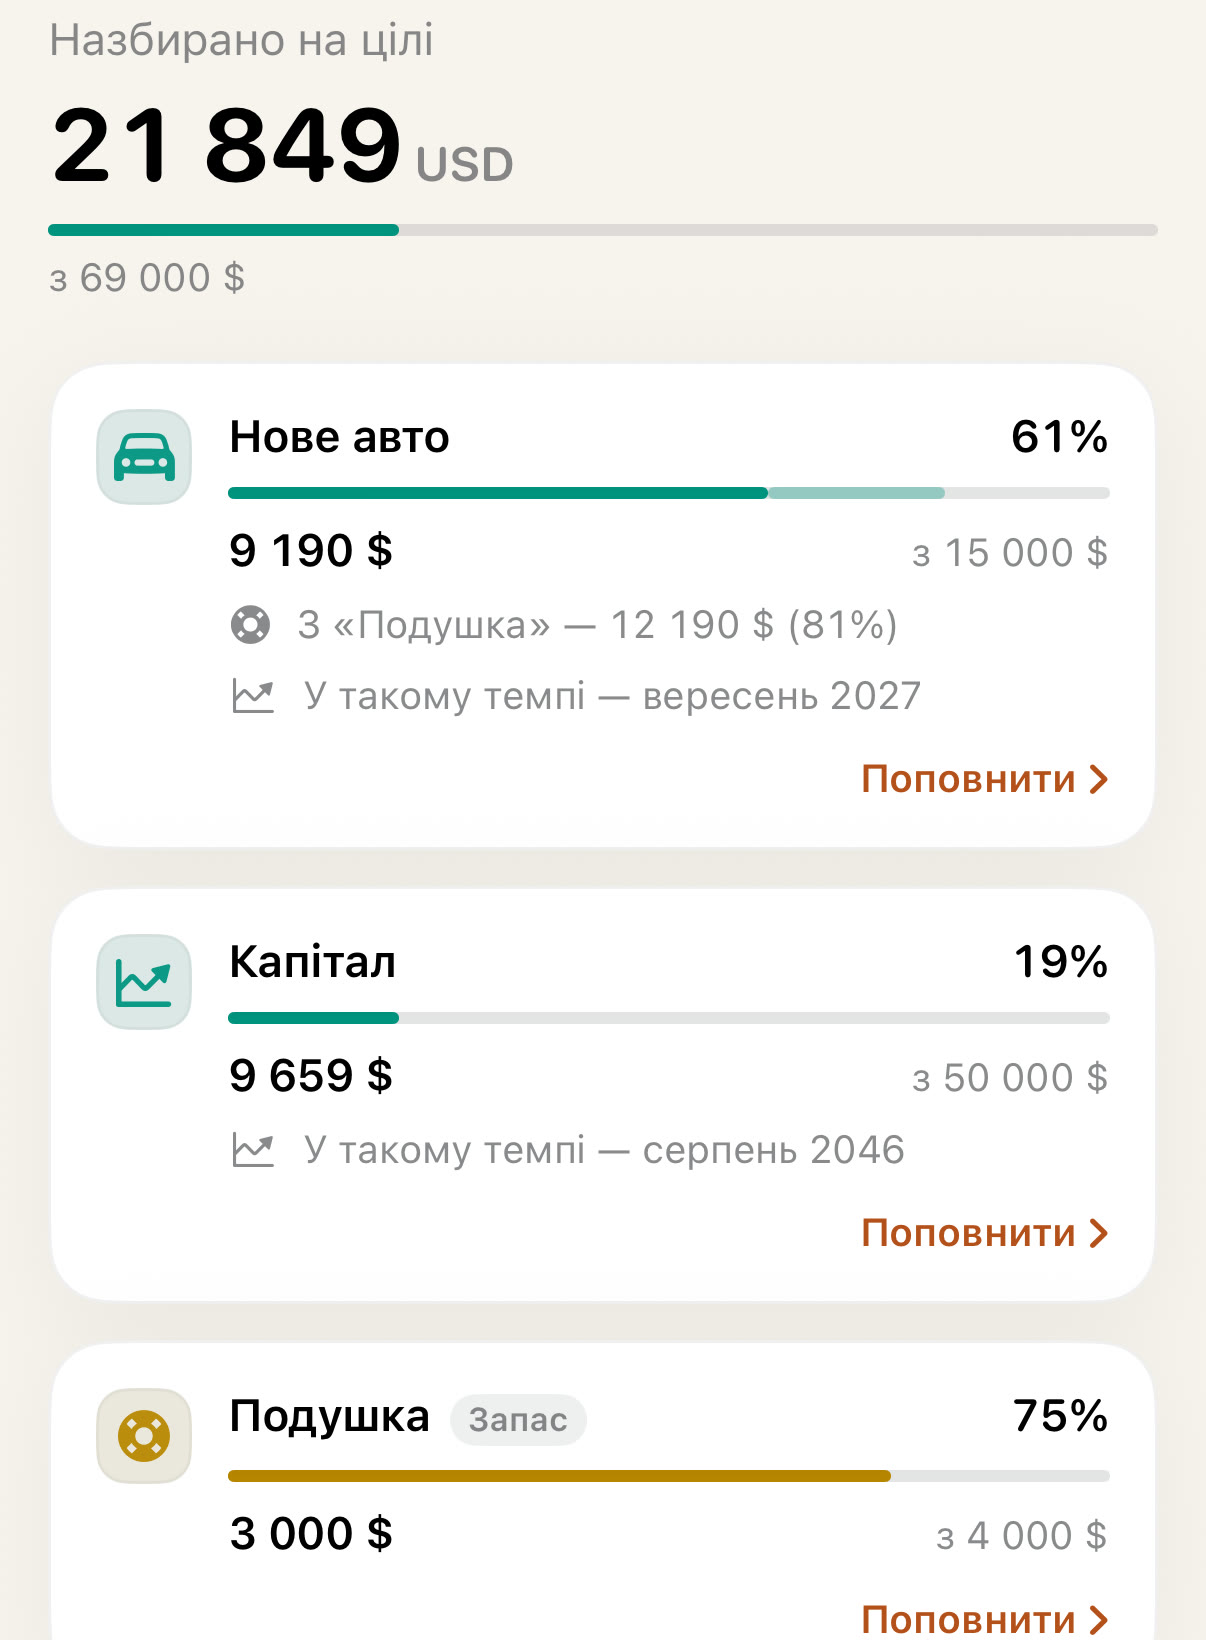
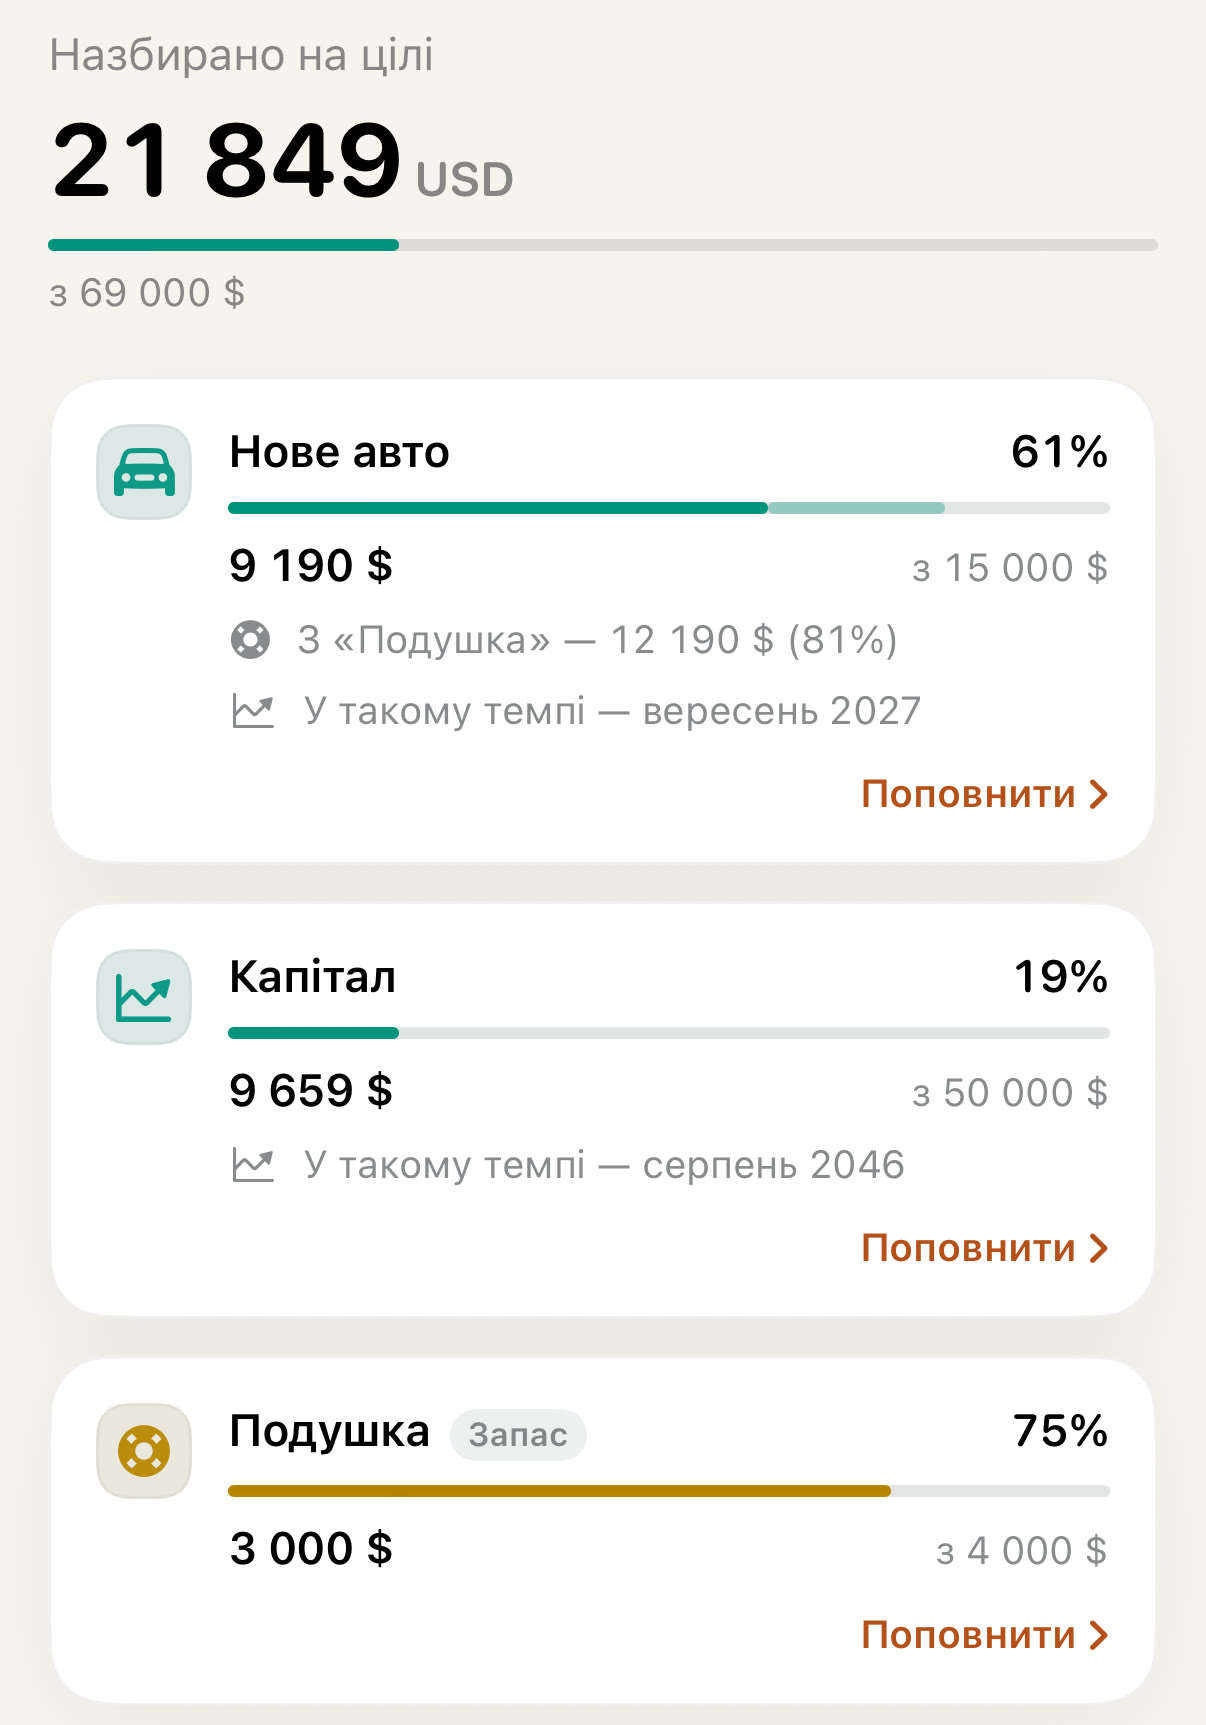
Landing 2.0 preview: the whole product in the hero, Dibsly's chat second; whole tile crops (owner)

diff --git a/v2/index.html b/v2/index.html
@@ -33,15 +33,33 @@
     </header>
 
     <main>
-        <section class="hero" id="ask">
+        <section class="hero" id="top">
             <div class="wrap">
                 <div>
-                    <h1>Запитай Dibsly, <em>куди поділись гроші</em></h1>
-                    <p class="lead">Він збирає всі твої рахунки, сам записує витрати й відповідає твоїми цифрами.</p>
+                    <h1>Усі твої гроші <em>в&nbsp;одному місці</em></h1>
+                    <p class="lead">Картки всіх банків, готівка, накопичення й інвестиції. Dibsly сам записує витрати й відповідає на питання про гроші.</p>
                     <div class="actions">
                         <a class="button primary" href="https://apps.apple.com/app/id6765870838">Завантажити в App Store</a>
-                        <a class="button quiet" href="#auto">Що він уміє</a>
+                        <a class="button quiet" href="#ask">Запитати Dibsly</a>
                     </div>
+                </div>
+                <div class="showcase">
+                    <div class="phone"><div class="slides" data-hold="2300"><img class="on" src="shots/uk-main-a.jpg" alt="Головна Dibsly: гроші під рукою, накопичення й інвестиції" width="750" height="1631"><img src="shots/uk-an-1.jpg" alt="Аналітика за категоріями" width="750" height="1631" loading="lazy"><img src="shots/uk-inv-1.jpg" alt="Портфель інвестицій" width="750" height="1631" loading="lazy"><img src="shots/uk-goals-full.jpg" alt="Цілі" width="750" height="1631" loading="lazy"></div></div>
+                    <div class="mascot" data-play="hello" data-then="idle" aria-hidden="true">
+                        <picture class="mascot-still"><img class="light-only" src="../img/dibsly.png" alt="" width="404" height="386"><img class="dark-only" src="../img/dibsly-dark.png" alt="" width="404" height="386"></picture>
+                        <div class="mascot-stage"></div>
+                    </div>
+                    <ul class="sources" aria-hidden="true"><li class="s0">monobank</li><li class="s1">ПриватБанк</li><li class="s2">Apple Pay</li><li class="s3">Interactive Brokers</li><li class="s4">Готівка</li></ul>
+                </div>
+            </div>
+        </section>
+
+        <section class="asksec" id="ask">
+            <div class="wrap">
+                <div class="reveal">
+                    <h2>Запитай Dibsly про свої гроші</h2>
+                    <p class="lead">Він знає твої рахунки, витрати й цілі, тож відповідає твоїми цифрами. А змінює щось тільки після твого «Зберегти».</p>
+                    <p class="note">5 питань на місяць безкоштовно, більше з Premium.</p>
                 </div>
                 <div class="ask">
                     <div class="mascot" data-play="hello" data-then="idle" aria-hidden="true">
@@ -106,15 +124,15 @@
                 <div class="bento">
                     <article class="tile big reveal">
                         <div><h3>Цілі</h3><p>Авто, квартира чи подушка. Dibsly каже, в якому місяці дійдеш у такому темпі.</p></div>
-                        <div class="crop"><img src="shots/uk-goals.jpg" alt="Цілі: нове авто, капітал і подушка" width="1206" height="1100" loading="lazy"></div>
+                        <div class="crop"><img src="shots/uk-goals.jpg" alt="Цілі: нове авто, капітал і подушка" width="1206" height="1725" loading="lazy"></div>
                     </article>
                     <article class="tile reveal">
                         <div><h3>План місяця</h3><p>Ліміти на категорії й скільки ще можна витратити.</p></div>
-                        <div class="crop"><img src="shots/uk-plan.jpg" alt="План місяця з лімітами" width="1206" height="1100" loading="lazy"></div>
+                        <div class="crop"><img src="shots/uk-plan.jpg" alt="План місяця з лімітами" width="1206" height="780" loading="lazy"></div>
                     </article>
                     <article class="tile reveal">
                         <div><h3>Календар платежів</h3><p>Оренда, підписки й кредити: що й коли спишеться.</p></div>
-                        <div class="crop"><img style="object-position: 50% 75%" src="shots/uk-calendar.jpg" alt="Календар регулярних платежів" width="1206" height="1100" loading="lazy"></div>
+                        <div class="crop"><img src="shots/uk-calendar.jpg" alt="Календар регулярних платежів" width="1206" height="1365" loading="lazy"></div>
                     </article>
                 </div>
             </div>

diff --git a/v2/en.html b/v2/en.html
@@ -33,15 +33,33 @@
     </header>
 
     <main>
-        <section class="hero" id="ask">
+        <section class="hero" id="top">
             <div class="wrap">
                 <div>
-                    <h1>Ask Dibsly <em>where the money went</em></h1>
-                    <p class="lead">He gathers all your accounts, records your spending by himself and answers in your own figures.</p>
+                    <h1>All your money <em>in one place</em></h1>
+                    <p class="lead">Cards from every bank, cash, savings and investments. Dibsly records your spending and answers your money questions.</p>
                     <div class="actions">
                         <a class="button primary" href="https://apps.apple.com/app/id6765870838">Download on the App Store</a>
-                        <a class="button quiet" href="#auto">What he can do</a>
+                        <a class="button quiet" href="#ask">Ask Dibsly</a>
                     </div>
+                </div>
+                <div class="showcase">
+                    <div class="phone"><div class="slides" data-hold="2300"><img class="on" src="shots/en-main-a.jpg" alt="Dibsly's Main: money on hand, savings and investments" width="750" height="1631"><img src="shots/en-an-1.jpg" alt="Analytics by category" width="750" height="1631" loading="lazy"><img src="shots/en-inv-1.jpg" alt="Investment portfolio" width="750" height="1631" loading="lazy"><img src="shots/en-goals-full.jpg" alt="Goals" width="750" height="1631" loading="lazy"></div></div>
+                    <div class="mascot" data-play="hello" data-then="idle" aria-hidden="true">
+                        <picture class="mascot-still"><img class="light-only" src="../img/dibsly.png" alt="" width="404" height="386"><img class="dark-only" src="../img/dibsly-dark.png" alt="" width="404" height="386"></picture>
+                        <div class="mascot-stage"></div>
+                    </div>
+                    <ul class="sources" aria-hidden="true"><li class="s0">monobank</li><li class="s1">PrivatBank</li><li class="s2">Apple Pay</li><li class="s3">Interactive Brokers</li><li class="s4">Cash</li></ul>
+                </div>
+            </div>
+        </section>
+
+        <section class="asksec" id="ask">
+            <div class="wrap">
+                <div class="reveal">
+                    <h2>Ask Dibsly about your money</h2>
+                    <p class="lead">He knows your accounts, spending and goals, so he answers in your own figures. And changes nothing until you tap Save.</p>
+                    <p class="note">5 questions a month free, more with Premium.</p>
                 </div>
                 <div class="ask">
                     <div class="mascot" data-play="hello" data-then="idle" aria-hidden="true">
@@ -106,15 +124,15 @@
                 <div class="bento">
                     <article class="tile big reveal">
                         <div><h3>Goals</h3><p>A car, a flat or a safety cushion. Dibsly tells you the month you get there at your pace.</p></div>
-                        <div class="crop"><img src="shots/en-goals.jpg" alt="Goals: a new car, capital and a cushion" width="1206" height="1100" loading="lazy"></div>
+                        <div class="crop"><img src="shots/en-goals.jpg" alt="Goals: a new car, capital and a cushion" width="1206" height="1725" loading="lazy"></div>
                     </article>
                     <article class="tile reveal">
                         <div><h3>Monthly plan</h3><p>Limits per category and how much is left to spend.</p></div>
-                        <div class="crop"><img src="shots/en-plan.jpg" alt="Monthly plan with limits" width="1206" height="1100" loading="lazy"></div>
+                        <div class="crop"><img src="shots/en-plan.jpg" alt="Monthly plan with limits" width="1206" height="780" loading="lazy"></div>
                     </article>
                     <article class="tile reveal">
                         <div><h3>Bill calendar</h3><p>Rent, subscriptions and loans: what is charged and when.</p></div>
-                        <div class="crop"><img style="object-position: 50% 75%" src="shots/en-calendar.jpg" alt="Calendar of recurring payments" width="1206" height="1100" loading="lazy"></div>
+                        <div class="crop"><img src="shots/en-calendar.jpg" alt="Calendar of recurring payments" width="1206" height="1365" loading="lazy"></div>
                     </article>
                 </div>
             </div>

diff --git a/v2/v2.css b/v2/v2.css
@@ -91,9 +91,30 @@ section { padding: clamp(72px, 10vw, 120px) 0; }
 .hero .wrap { display: grid; grid-template-columns: 1fr 1fr; gap: 48px; align-items: center; min-height: calc(100dvh - 120px); }
 .hero h1 { font-size: clamp(42px, 5.6vw, 72px); line-height: 1.02; font-weight: 750; letter-spacing: -0.035em; }
 .hero h1 em { font-style: normal; color: var(--orange); }
-.hero .lead { font-size: 20px; max-width: 30ch; }
+.hero .lead { font-size: 20px; max-width: 34ch; }
 .hero .actions { display: flex; flex-wrap: wrap; gap: 12px; margin-top: 32px; }
 @media (max-width: 960px) { .hero .wrap { grid-template-columns: 1fr; min-height: 0; gap: 36px; } }
+
+/* The hero's phone: Main, analytics, investments and goals in turn, the money's sources around it. */
+.showcase { position: relative; justify-self: center; width: min(100%, 420px); padding: 24px 60px; }
+.showcase .phone { max-width: 300px; margin: 0 auto; }
+.showcase .mascot { position: absolute; width: 140px; left: -10px; bottom: 6px; z-index: 2; }
+.sources { list-style: none; margin: 0; padding: 0; }
+.sources li { position: absolute; background: var(--card); border-radius: 999px; padding: 8px 14px; font: 600 14px var(--font);
+    box-shadow: var(--shadow); white-space: nowrap; animation: drift 6s ease-in-out infinite; }
+.sources .s0 { top: 70px; left: 0; }
+.sources .s1 { top: 170px; right: 0; animation-delay: -1.5s; }
+.sources .s2 { top: 330px; left: -10px; animation-delay: -3s; }
+.sources .s3 { top: 430px; right: -20px; animation-delay: -4.5s; }
+.sources .s4 { top: 0; right: 0; animation-delay: -2.2s; }
+@keyframes drift { 0%, 100% { transform: translateY(0); } 50% { transform: translateY(-7px); } }
+@media (max-width: 520px) { .showcase { padding: 16px 24px; } .sources .s3, .sources .s4 { display: none; } .showcase .mascot { width: 110px; left: -6px; } }
+
+/* The chat with Dibsly: what it is on the left, the conversation on the right. */
+.asksec { background: var(--raised); }
+.asksec .wrap { display: grid; grid-template-columns: 1fr 1fr; gap: 56px; align-items: center; }
+.asksec .note { margin-top: 18px; color: var(--muted); font-size: 15px; }
+@media (max-width: 960px) { .asksec .wrap { grid-template-columns: 1fr; gap: 32px; } .asksec .ask { justify-self: stretch; max-width: none; } }
 
 .ask { position: relative; padding-top: 92px; max-width: 480px; justify-self: end; width: 100%; }
 .ask .mascot { position: absolute; top: 0; left: 22px; width: 150px; z-index: 2; }
@@ -192,10 +213,9 @@ section { padding: clamp(72px, 10vw, 120px) 0; }
 .tile p { color: var(--ink-2); margin-top: 6px; }
 .tile.big { grid-row: span 2; background: var(--peach); }
 .tile.big p { color: var(--peach-ink); }
-.tile .crop { position: relative; height: 250px; border-radius: 16px 16px 0 0; overflow: hidden; box-shadow: 0 1px 2px rgba(110, 52, 16, 0.08); }
-.tile .crop img { position: absolute; inset: 0; width: 100%; height: 100%; object-fit: cover; object-position: top; }
-.tile.big .crop { height: auto; flex: 1; min-height: 320px; }
-@media (max-width: 860px) { .bento { grid-template-columns: 1fr; } .tile.big { grid-row: auto; } .tile.big .crop { min-height: 320px; } }
+.tile .crop { border-radius: 16px; overflow: hidden; box-shadow: 0 1px 2px rgba(110, 52, 16, 0.08); margin-bottom: 28px; }
+.tile .crop img { width: 100%; height: auto; }
+@media (max-width: 860px) { .bento { grid-template-columns: 1fr; } .tile.big { grid-row: auto; } .tile.big .crop { margin-bottom: 28px; } }
 
 /* Investments: text, then the phone. */
 .invest .wrap { display: grid; grid-template-columns: 1fr 360px; gap: 72px; align-items: center; }
@@ -268,6 +288,7 @@ footer a { color: var(--ink-2); }
 .js .reveal.shown { opacity: 1; transform: none; }
 
 @media (prefers-reduced-motion: reduce) {
+    .sources li { animation: none; }
     html { scroll-behavior: auto; }
     .js .reveal { opacity: 1; transform: none; transition: none; }
     .msg, .card, .bars i { animation: none; }

diff --git a/README.md b/README.md
@@ -47,7 +47,10 @@ drafts loop jumped — Main re-lays itself out after each save — the portfolio
 blurry):** each phone is a stack of full-resolution screenshots from «Dibsly — Clean» (`v2/shots/{uk,en}-*.jpg`, 750
 px wide; the plan, calendar and goals tiles cropped from 1206 px captures) that crossfade in 0.45 s while on screen;
 a touch mark shows where the tap was before the screen changes (`data-tap` = x,y in %), and the analytics labels follow
-the slide (`data-slide`).
+the slide (`data-slide`). **The hero is the whole product again (owner: «мы тут строим по сути финансовую
+империю», the chat is one part of it):** «Усі твої гроші в одному місці» with a phone turning through Main, analytics,
+investments and goals, the money's sources floating around it and Dibsly beside it; the conversation with Dibsly is
+the second section (`#ask`). The tiles show whole crops (plan, calendar, goals cut on clean lines), not cut text.
 
 Since 2026-10-10 the same files are also served at **<https://dibslyapp.com>** by the Cloudflare Worker `dibsly-site`
 (`worker.js`, `wrangler.toml`; deploy with `npx wrangler deploy` on the owner's word), which also opens short split
